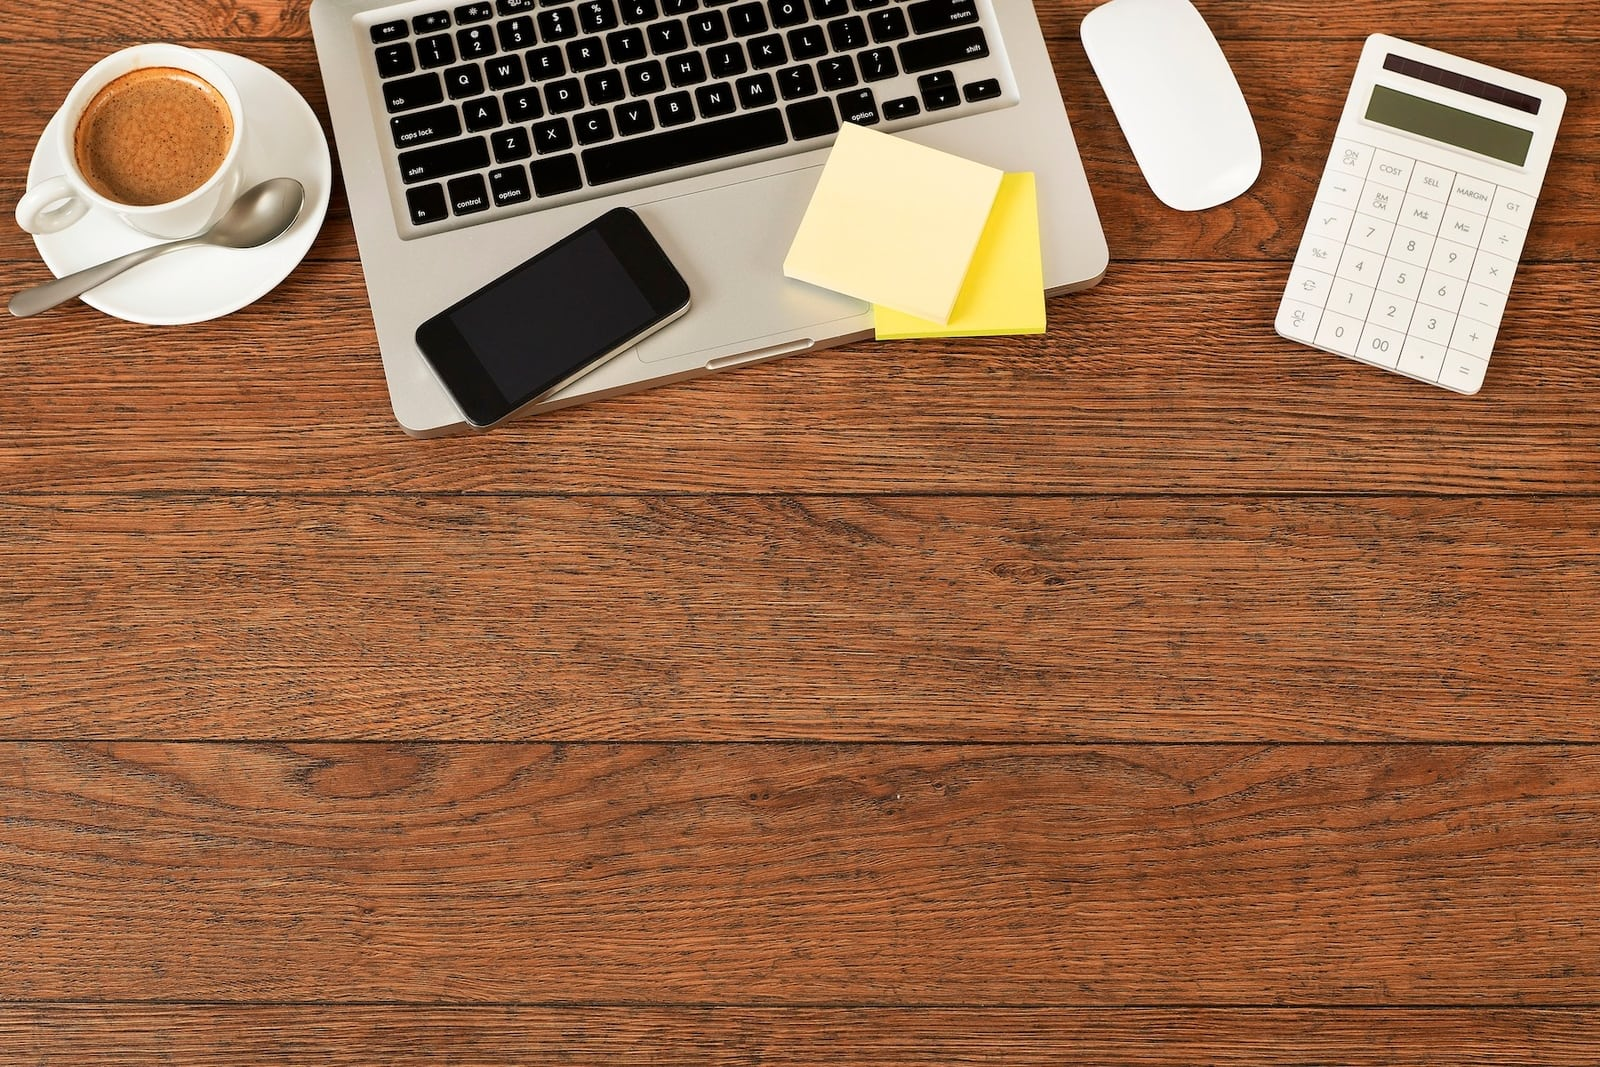
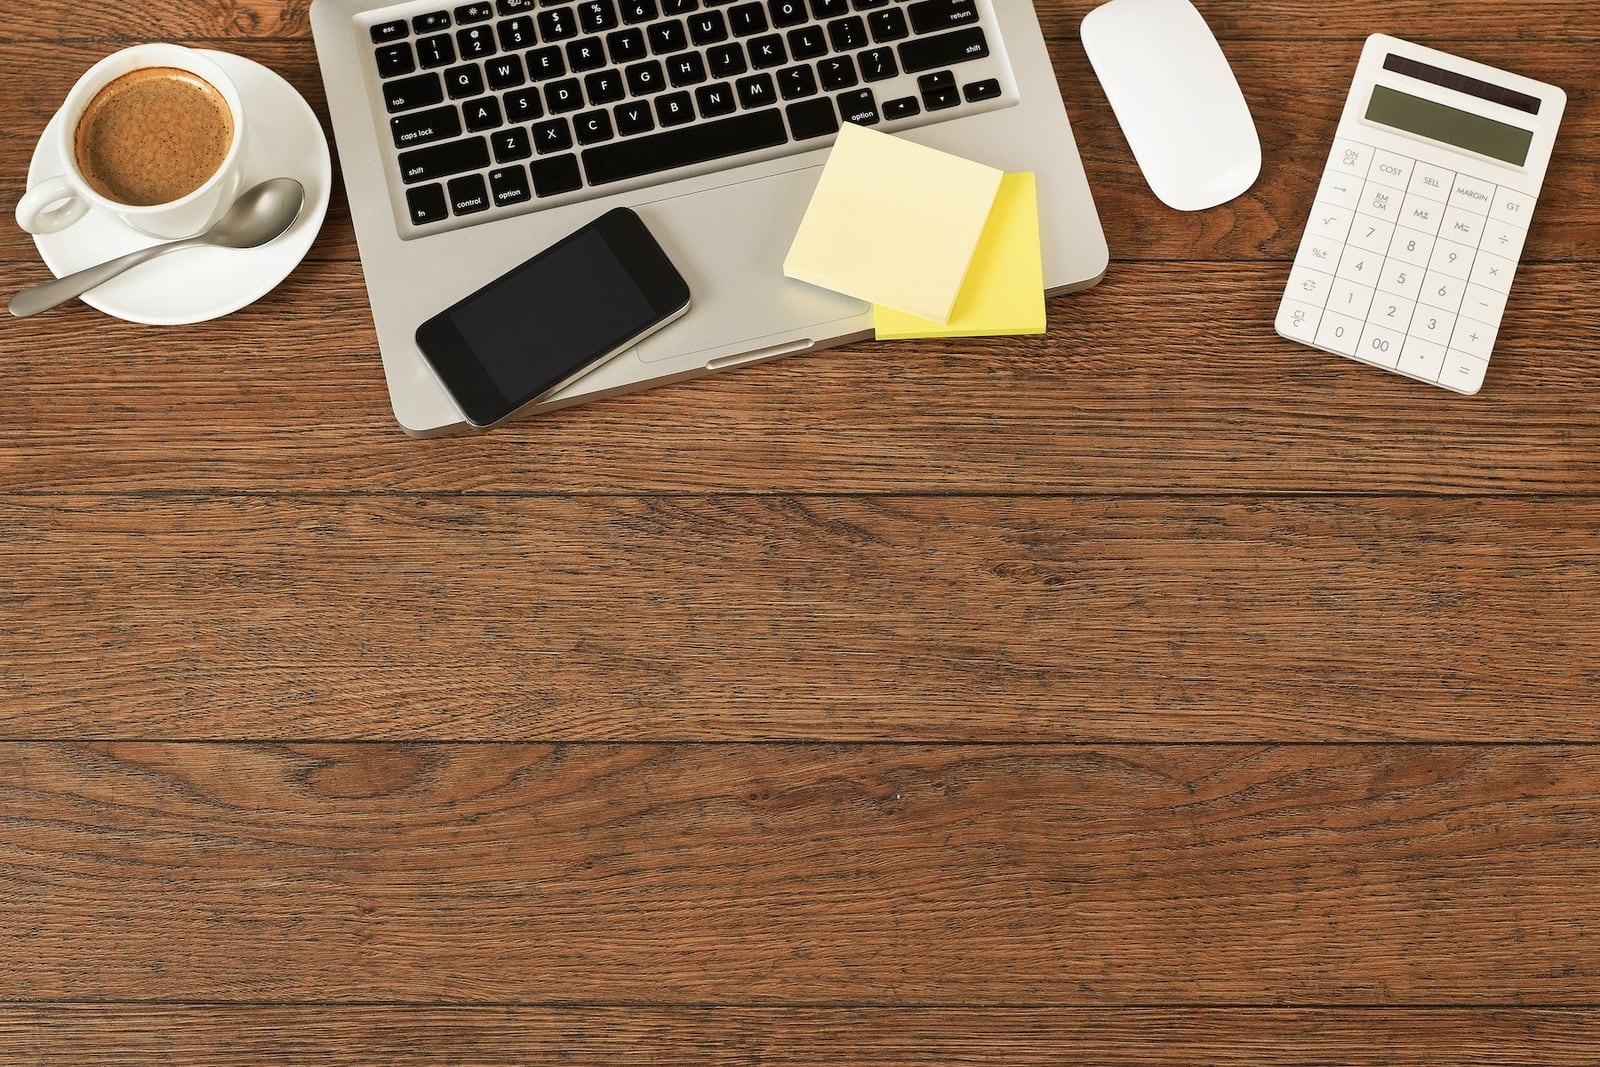
Further optimised images

Changed region(s): [[0.0625, 0.0619, 0.1562, 0.1546], [0.5938, 0.1856, 0.625, 0.3093]]

diff --git a/index.html b/index.html
@@ -1,6 +1,6 @@
 <!DOCTYPE html>
 <!--  This site was created in Webflow. http://www.webflow.com  -->
-<!--  Last Published: Mon Oct 09 2017 10:19:25 GMT+0000 (UTC)  -->
+<!--  Last Published: Mon Oct 09 2017 10:37:12 GMT+0000 (UTC)  -->
 <html data-wf-page="5978f26065971100019ae14e" data-wf-site="5978f26065971100019ae14f">
 <head>
   <meta charset="utf-8">
@@ -25,7 +25,7 @@
 </head>
 <body>
   <div data-collapse="medium" data-animation="default" data-duration="400" class="nav-bar w-nav">
-    <div class="w-container"><a href="#" class="w-nav-brand"><img src="images/payzip-logo.png" width="175" id="Brand" class="brand"></a>
+    <div class="w-container"><a href="#" class="w-nav-brand"><img src="images/payzip-logo.png" id="Brand" class="brand"></a>
       <nav role="navigation" class="nav-menu w-nav-menu"><a href="#what-is-payzip" class="nav-link w-nav-link">what is payzip?</a><a href="#features" class="nav-link w-nav-link">features</a><a href="#our-clients" class="nav-link w-nav-link">our clients</a><a href="#who-we-are" class="nav-link w-nav-link">who we are</a></nav>
       <div class="menu-button w-nav-button">
         <div class="w-icon-nav-menu"></div>
@@ -116,7 +116,7 @@
       <h3 class="heading">our clients</h3>
       <div data-delay="4000" data-animation="slide" data-autoplay="1" data-duration="1500" data-infinite="1" class="slider w-slider">
         <div class="w-slider-mask">
-          <div class="slide w-slide"><img src="images/south-wales-fa.png" width="100" class="testimonial-icon">
+          <div class="slide w-slide"><img src="images/south-wales-fa.png" class="testimonial-icon">
             <div class="testimonial-content">“Working with PayZip has been a hugely rewarding experience. They&#x27;ve made collecting monies from our clubs straightforward and efficient.”</div>
             <div class="testimonial-credit">paul JENNINGS, hon. treasurer, south wales fa</div>
           </div>

diff --git a/privacy-policy.html b/privacy-policy.html
@@ -1,6 +1,6 @@
 <!DOCTYPE html>
 <!--  This site was created in Webflow. http://www.webflow.com  -->
-<!--  Last Published: Mon Oct 09 2017 10:19:25 GMT+0000 (UTC)  -->
+<!--  Last Published: Mon Oct 09 2017 10:37:12 GMT+0000 (UTC)  -->
 <html data-wf-page="59d797cdc47bd800017e8ca2" data-wf-site="5978f26065971100019ae14f">
 <head>
   <meta charset="utf-8">
@@ -26,7 +26,7 @@
 <body>
   <div class="w-container">
     <div data-collapse="medium" data-animation="default" data-duration="400" class="nav-bar w-nav">
-      <div class="w-container"><a href="#" class="w-nav-brand"><img src="images/payzip-logo.png" width="175" id="Brand" class="brand"></a>
+      <div class="w-container"><a href="#" class="w-nav-brand"><img src="images/payzip-logo.png" id="Brand" class="brand"></a>
         <nav role="navigation" class="nav-menu w-nav-menu"><a href="#what-is-payzip" class="nav-link w-nav-link">what is payzip?</a><a href="#features" class="nav-link w-nav-link">features</a><a href="#our-clients" class="nav-link w-nav-link">our clients</a><a href="#who-we-are" class="nav-link w-nav-link">who we are</a></nav>
         <div class="menu-button w-nav-button">
           <div class="w-icon-nav-menu"></div>

diff --git a/terms-and-conditions.html b/terms-and-conditions.html
@@ -1,6 +1,6 @@
 <!DOCTYPE html>
 <!--  This site was created in Webflow. http://www.webflow.com  -->
-<!--  Last Published: Mon Oct 09 2017 10:19:25 GMT+0000 (UTC)  -->
+<!--  Last Published: Mon Oct 09 2017 10:37:12 GMT+0000 (UTC)  -->
 <html data-wf-page="59a983416683c1000112d3c8" data-wf-site="5978f26065971100019ae14f">
 <head>
   <meta charset="utf-8">
@@ -26,7 +26,7 @@
 <body>
   <div class="w-container">
     <div data-collapse="medium" data-animation="default" data-duration="400" class="nav-bar w-nav">
-      <div class="w-container"><a href="#" class="w-nav-brand"><img src="images/payzip-logo.png" width="175" id="Brand" class="brand"></a>
+      <div class="w-container"><a href="#" class="w-nav-brand"><img src="images/payzip-logo.png" id="Brand" class="brand"></a>
         <nav role="navigation" class="nav-menu w-nav-menu"><a href="#what-is-payzip" class="nav-link w-nav-link">what is payzip?</a><a href="#features" class="nav-link w-nav-link">features</a><a href="#our-clients" class="nav-link w-nav-link">our clients</a><a href="#who-we-are" class="nav-link w-nav-link">who we are</a></nav>
         <div class="menu-button w-nav-button">
           <div class="w-icon-nav-menu"></div>

diff --git a/features-and-pricing.html b/features-and-pricing.html
@@ -1,6 +1,6 @@
 <!DOCTYPE html>
 <!--  This site was created in Webflow. http://www.webflow.com  -->
-<!--  Last Published: Mon Oct 09 2017 10:19:25 GMT+0000 (UTC)  -->
+<!--  Last Published: Mon Oct 09 2017 10:37:12 GMT+0000 (UTC)  -->
 <html data-wf-page="5994a5b70c1b2f000184eae0" data-wf-site="5978f26065971100019ae14f">
 <head>
   <meta charset="utf-8">
